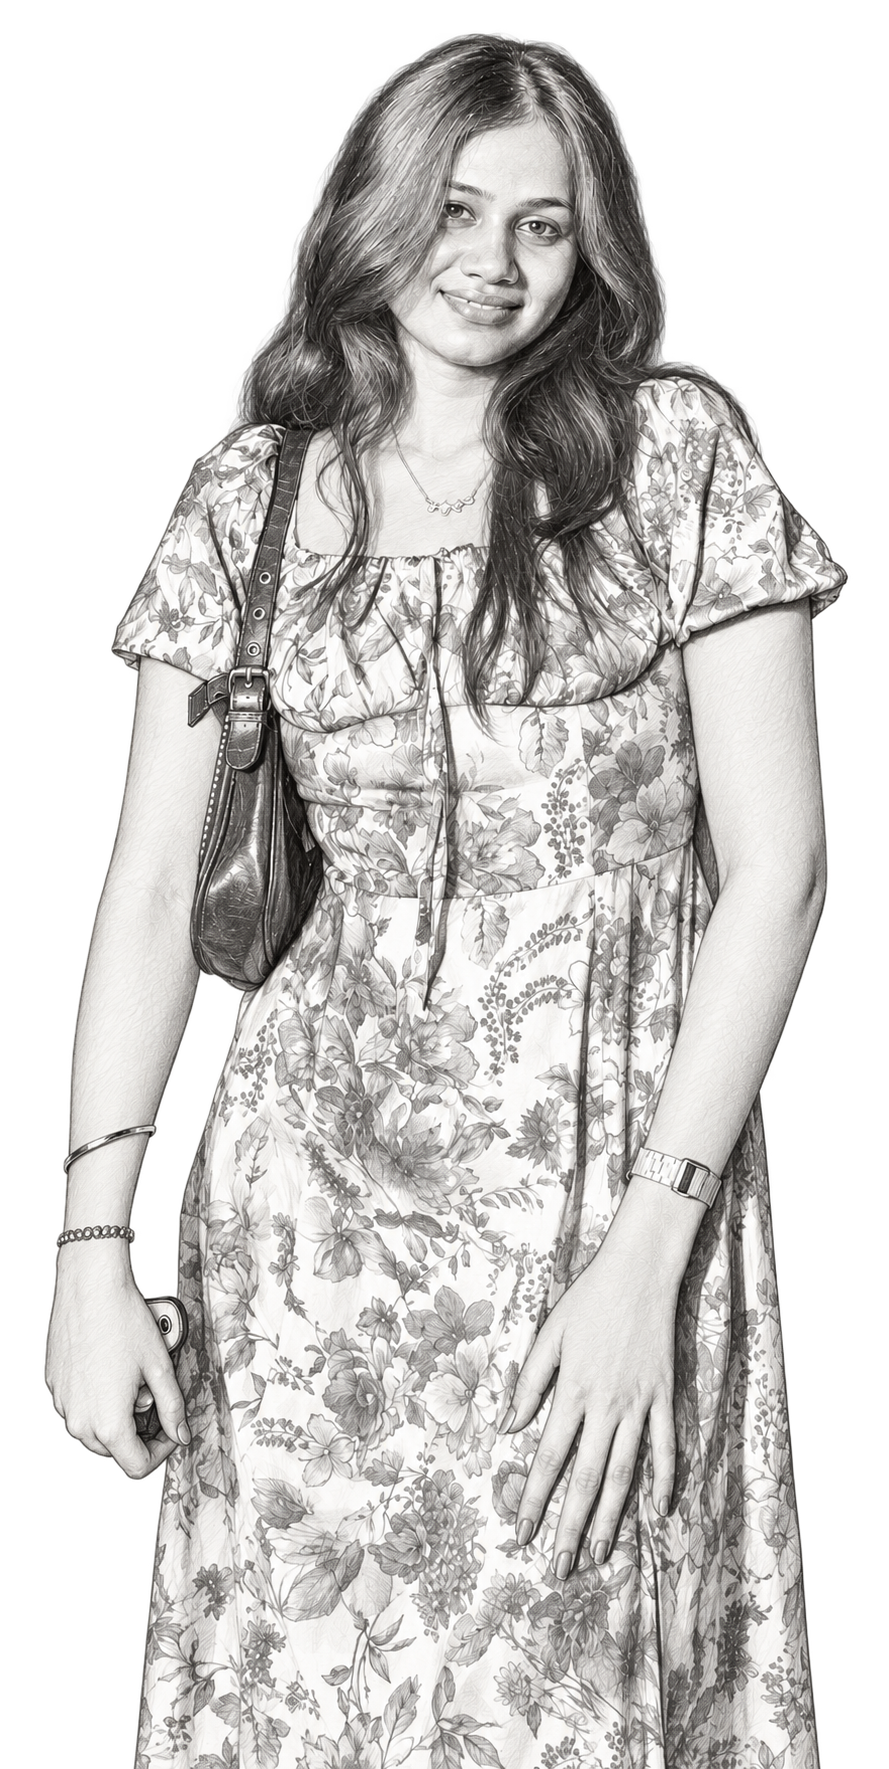
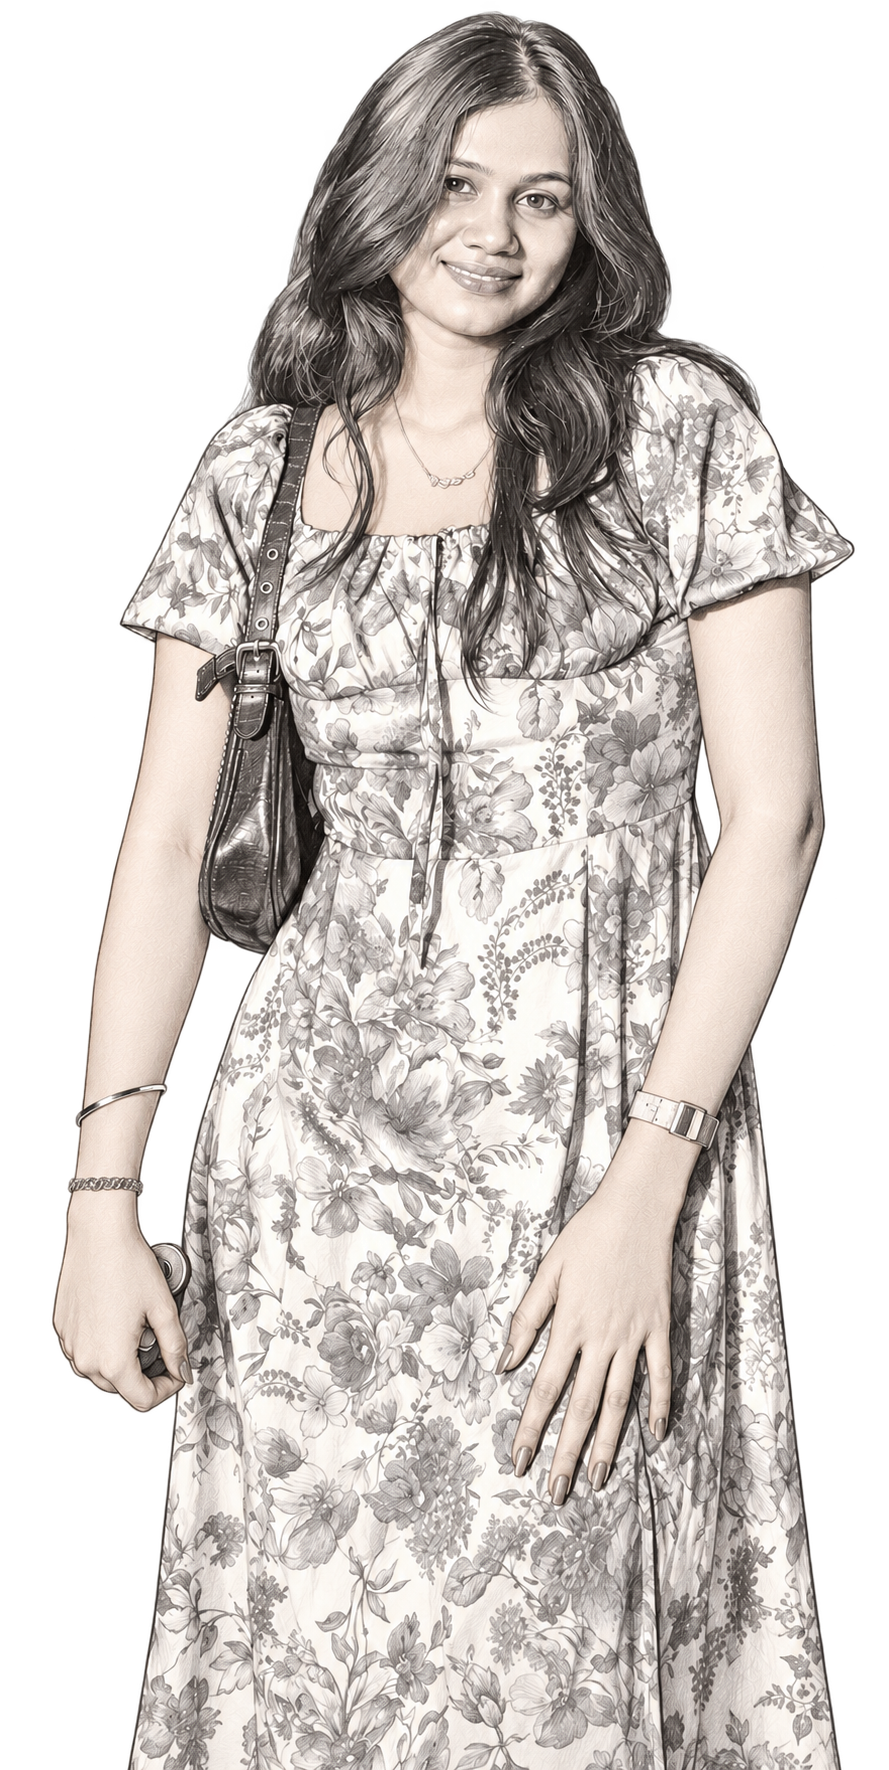
Update portfolio

diff --git a/components/hero/HeroImage.tsx b/components/hero/HeroImage.tsx
@@ -33,8 +33,8 @@ export default function HeroImage({
 }: HeroImageProps) {
   const imageRef = useRef<HTMLDivElement | null>(null);
 
-  const REAL_IMAGE = "/images/manya.png";
-  const SKETCH_IMAGE = "/images/manya-sketch .png";
+  const SKETCH_IMAGE = "/images/Manya sketch.png";
+  const REAL_IMAGE = "/images/Mnaya rreal.jpeg";
 
   const [isHovered, setIsHovered] = useState(false);
   const [isFrameSelected, setIsFrameSelected] = useState(false);
@@ -271,7 +271,7 @@ useEffect(() => {
           }}
           onMouseLeave={handlePointerLeave}
           onClick={handleImageClick}
-          className="group relative isolate h-[420px] w-[270px] cursor-none overflow-visible sm:h-[500px] sm:w-[320px] md:h-[570px] md:w-[365px] lg:h-[500px] lg:w-[320px] xl:h-[600px] xl:w-[385px] 2xl:h-[660px] 2xl:w-[425px]"
+          className="group relative isolate h-[min(127.5vw,420px)] w-[min(82vw,270px)] cursor-none overflow-visible sm:h-[500px] sm:w-[320px] md:h-[570px] md:w-[365px] lg:h-[500px] lg:w-[320px] xl:h-[600px] xl:w-[385px] 2xl:h-[660px] 2xl:w-[425px]"
           style={{
             touchAction: "none",
           }}
@@ -280,17 +280,26 @@ useEffect(() => {
 
             <Image
               src={REAL_IMAGE}
-              alt="Manya Parwal"
+              alt="Portrait of Manya Parwal outdoors"
               fill
               priority
               fetchPriority="high"
-              sizes="(max-width: 640px) 270px, (max-width: 768px) 320px, (max-width: 1024px) 365px, (max-width: 1280px) 320px, (max-width: 1536px) 385px, 425px"
-              className="pointer-events-none select-none object-cover object-top"
+              sizes="(max-width: 329px) 82vw, (max-width: 639px) 270px, (max-width: 767px) 320px, (max-width: 1023px) 365px, (max-width: 1279px) 320px, (max-width: 1535px) 385px, 425px"
+              className="pointer-events-none select-none object-cover object-center"
               draggable={false}
             />
 
             <div
-              className="pointer-events-none absolute inset-0 z-10 transition-opacity duration-300 ease-out"
+              aria-hidden="true"
+              className="pointer-events-none absolute inset-0 z-[5]"
+              style={{
+                background:
+                  "radial-gradient(ellipse at 50% 42%, transparent 36%, rgba(15,17,21,0.28) 100%), linear-gradient(180deg, rgba(15,17,21,0.08) 0%, transparent 34%, rgba(15,17,21,0.3) 100%)",
+              }}
+            />
+
+            <div
+              className="pointer-events-none absolute inset-0 z-10 transition-opacity duration-500 ease-out"
               style={{
                 opacity: revealOpacity,
                 clipPath: `circle(${isHovered ? 95 : 0}px at ${smoothPosition.x}% ${smoothPosition.y}%)`,
@@ -304,8 +313,8 @@ useEffect(() => {
                 fill
                 loading="lazy"
                 decoding="async"
-                sizes="(max-width: 640px) 270px, (max-width: 768px) 320px, (max-width: 1024px) 365px, (max-width: 1280px) 320px, (max-width: 1536px) 385px, 425px"
-                className="pointer-events-none select-none object-cover object-top"
+                sizes="(max-width: 329px) 82vw, (max-width: 639px) 270px, (max-width: 767px) 320px, (max-width: 1023px) 365px, (max-width: 1279px) 320px, (max-width: 1535px) 385px, 425px"
+                className="pointer-events-none select-none object-cover object-center"
                 draggable={false}
               />
             </div>

diff --git a/components/hero/HeroCards.tsx b/components/hero/HeroCards.tsx
@@ -39,7 +39,7 @@ export default function HeroCards({
             : "translate-y-4 opacity-0"
         }`}
       >
-        <span className="text-[8px] uppercase tracking-[0.3em] text-white/25">
+        <span className="text-[8px] uppercase tracking-[0.3em] text-white/40">
           What I work with
         </span>
 
@@ -55,7 +55,7 @@ export default function HeroCards({
             <Link
               key={card.title}
               href={card.href}
-              className={`group relative block cursor-pointer overflow-hidden rounded-[20px] border border-white/[0.075] bg-white/[0.025] px-5 py-4 backdrop-blur-sm transition-[opacity,transform,filter,border-color,background-color,box-shadow] duration-[850ms] ease-[cubic-bezier(.16,1,.3,1)] hover:-translate-y-[2px] hover:border-[#8B5CF6]/30 hover:bg-white/[0.045] hover:shadow-[0_18px_50px_rgba(0,0,0,.18)] sm:px-6 sm:py-5 lg:px-5 lg:py-4 xl:rounded-[22px] xl:px-6 xl:py-5 ${
+              className={`group relative block cursor-pointer overflow-hidden rounded-[18px] border border-white/[0.09] bg-white/[0.03] px-5 py-4 backdrop-blur-sm transition-[opacity,transform,filter,border-color,background-color,box-shadow] duration-[700ms] ease-[cubic-bezier(.16,1,.3,1)] hover:-translate-y-[2px] hover:border-[#8B5CF6]/25 hover:bg-white/[0.045] hover:shadow-[0_18px_50px_rgba(0,0,0,.18)] sm:px-6 sm:py-5 lg:px-5 lg:py-4 xl:rounded-[20px] xl:px-6 xl:py-5 ${
                 isVisible
                   ? "translate-x-0 translate-y-0 opacity-100 blur-0"
                   : "translate-y-7 opacity-0 blur-[4px] lg:translate-x-7"
@@ -80,7 +80,7 @@ export default function HeroCards({
                     {card.title}
                   </h3>
 
-                  <p className="mt-1.5 max-w-[240px] text-[12px] leading-5 text-white/32 transition-colors duration-500 group-hover:text-white/48 sm:text-[13px] lg:text-[11px] lg:leading-[1.65] xl:text-[12px]">
+                  <p className="mt-1.5 max-w-[240px] text-[12px] leading-5 text-white/45 transition-colors duration-500 group-hover:text-white/60 sm:text-[13px] lg:text-[11px] lg:leading-[1.65] xl:text-[12px]">
                     {card.subtitle}
                   </p>
                 </div>

diff --git a/components/hero/HeroText.tsx b/components/hero/HeroText.tsx
@@ -11,7 +11,7 @@ export default function HeroText({
       {/* SUBTITLE */}
       <div className="overflow-hidden">
         <p
-          className={`hero-subtitle mb-7 text-[9px] font-medium uppercase tracking-[0.38em] text-white/40 transition-[opacity,transform,filter] delay-[100ms] duration-700 ease-[cubic-bezier(.16,1,.3,1)] sm:mb-8 sm:text-[10px] lg:mb-7 xl:text-[11px] ${
+          className={`hero-subtitle mb-7 text-[9px] font-medium uppercase tracking-[0.34em] text-white/50 transition-[opacity,transform,filter] delay-[100ms] duration-700 ease-[cubic-bezier(.16,1,.3,1)] sm:mb-8 sm:text-[10px] lg:mb-7 xl:text-[11px] ${
             isVisible
               ? "translate-y-0 opacity-100 blur-0"
               : "translate-y-5 opacity-0 blur-[3px]"
@@ -57,7 +57,7 @@ export default function HeroText({
 
       {/* DESCRIPTION */}
       <p
-        className={`hero-copy mx-auto mt-8 max-w-[470px] text-[15px] leading-7 text-white/42 transition-[opacity,transform,filter] delay-[440ms] duration-[850ms] ease-[cubic-bezier(.16,1,.3,1)] sm:mt-10 sm:text-[17px] sm:leading-8 lg:mx-0 lg:mt-8 lg:max-w-[360px] lg:text-[14px] lg:leading-7 xl:mt-10 xl:max-w-[430px] xl:text-[16px] xl:leading-8 ${
+        className={`hero-copy mx-auto mt-8 max-w-[470px] text-[15px] leading-7 text-white/55 transition-[opacity,transform,filter] delay-[440ms] duration-[850ms] ease-[cubic-bezier(.16,1,.3,1)] sm:mt-10 sm:text-[17px] sm:leading-8 lg:mx-0 lg:mt-8 lg:max-w-[360px] lg:text-[14px] lg:leading-7 xl:mt-10 xl:max-w-[430px] xl:text-[16px] xl:leading-8 ${
           isVisible
             ? "translate-y-0 opacity-100 blur-0"
             : "translate-y-6 opacity-0 blur-[4px]"

diff --git a/components/hero/Hero.tsx b/components/hero/Hero.tsx
@@ -109,7 +109,7 @@ export default function Hero() {
 
         <div className="flex flex-1 items-center py-14 sm:py-16 md:py-20 lg:py-8">
 
-          <div className="grid w-full items-center gap-14 sm:gap-16 md:gap-20 lg:grid-cols-[minmax(270px,0.92fr)_minmax(290px,0.86fr)_minmax(250px,0.82fr)] lg:gap-8 xl:grid-cols-[minmax(320px,1fr)_minmax(340px,0.88fr)_minmax(280px,0.8fr)] xl:gap-14 2xl:grid-cols-[minmax(350px,1.05fr)_minmax(380px,0.88fr)_minmax(300px,0.78fr)] 2xl:gap-20">
+          <div className="grid w-full items-center gap-14 sm:gap-16 md:gap-20 lg:grid-cols-[minmax(0,1fr)_minmax(320px,auto)_minmax(0,1fr)] lg:gap-8 xl:gap-14 2xl:gap-20">
 
             {/* ======================================
                 LEFT — HERO TEXT
